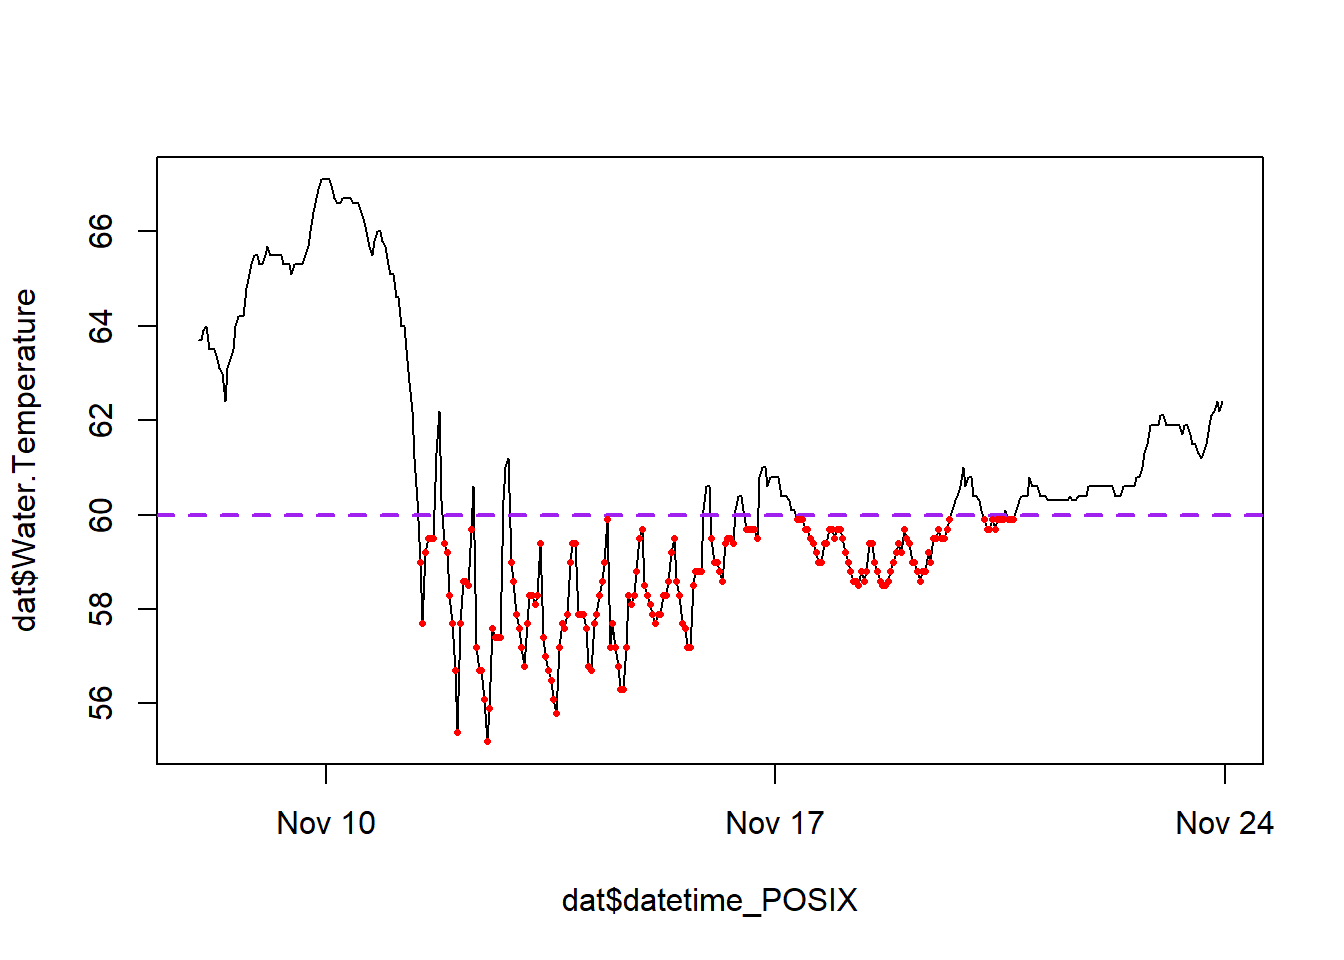
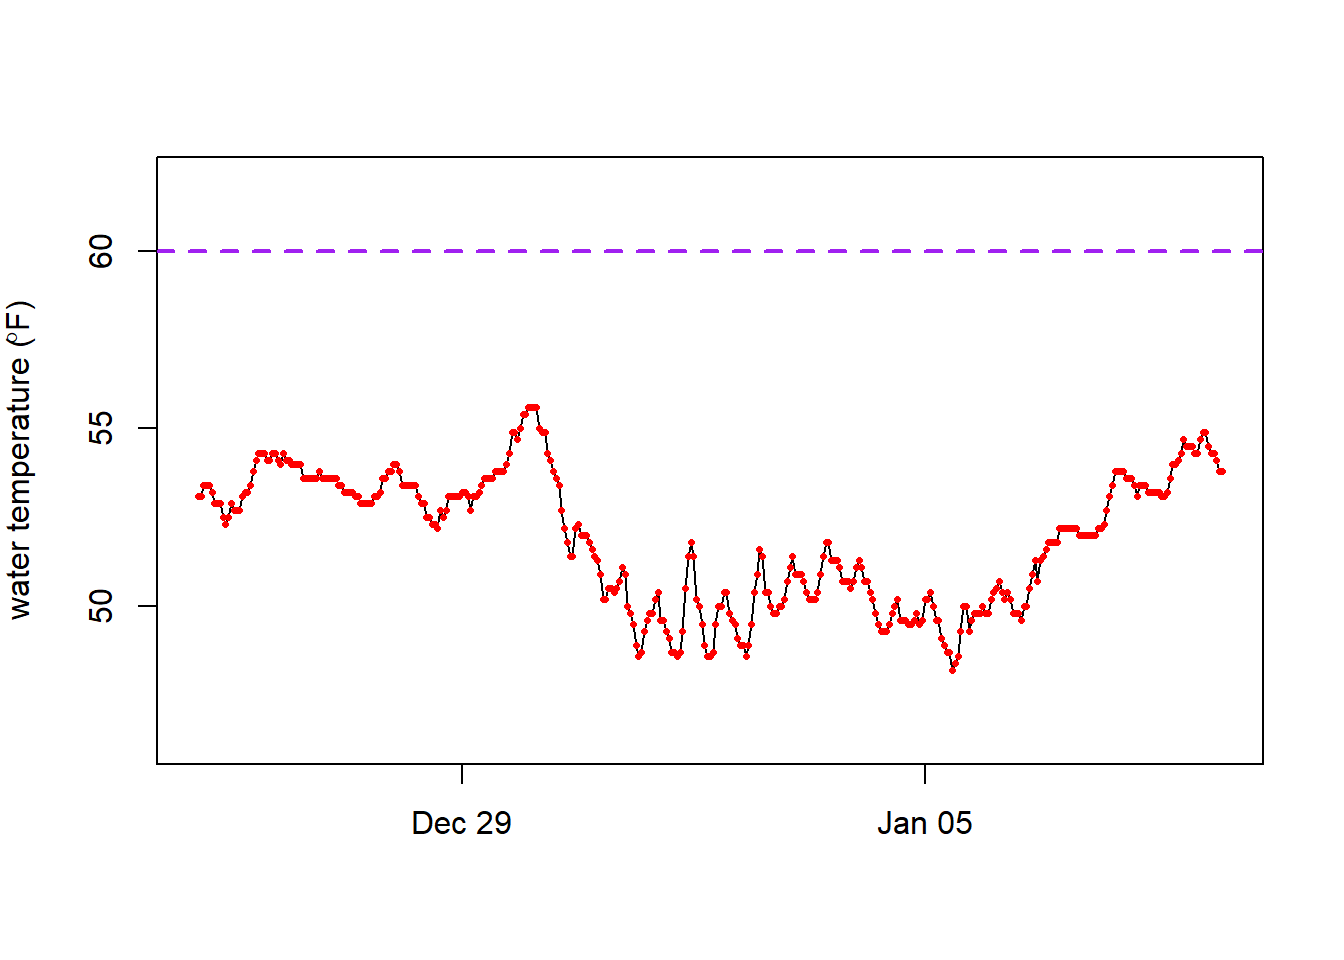
update

diff --git a/index.html b/index.html
@@ -6,7 +6,7 @@
 
 <meta name="viewport" content="width=device-width, initial-scale=1.0, user-scalable=yes">
 
-<meta name="dcterms.date" content="2025-11-23">
+<meta name="dcterms.date" content="2026-01-09">
 
 <title>water temp at 8656483</title>
 <style>
@@ -91,7 +91,7 @@ pre > code.sourceCode > span > a:first-child::before { text-decoration: underlin
     <div>
     <div class="quarto-title-meta-heading">Published</div>
     <div class="quarto-title-meta-contents">
-      <p class="date">November 23, 2025</p>
+      <p class="date">January 9, 2026</p>
     </div>
   </div>
   
@@ -192,10 +192,21 @@ pre > code.sourceCode > span > a:first-child::before { text-decoration: underlin
 <div class="cell">
 <details class="code-fold">
 <summary>Code</summary>
-<div class="sourceCode cell-code" id="cb3"><pre class="sourceCode r code-with-copy"><code class="sourceCode r"><span id="cb3-1"><a href="#cb3-1" aria-hidden="true" tabindex="-1"></a><span class="fu">plot</span>(dat<span class="sc">$</span>datetime_POSIX, dat<span class="sc">$</span>Water.Temperature, <span class="at">type =</span> <span class="st">'l'</span>)</span>
-<span id="cb3-2"><a href="#cb3-2" aria-hidden="true" tabindex="-1"></a><span class="fu">abline</span>(<span class="at">h =</span> <span class="dv">60</span>, <span class="at">lty =</span> <span class="dv">2</span>, <span class="at">lwd =</span> <span class="dv">2</span>, <span class="at">col =</span> <span class="st">"purple"</span>)</span>
-<span id="cb3-3"><a href="#cb3-3" aria-hidden="true" tabindex="-1"></a>dese <span class="ot">&lt;-</span> <span class="fu">which</span>(dat<span class="sc">$</span>Water.Temperature <span class="sc">&lt;</span> <span class="dv">60</span>)</span>
-<span id="cb3-4"><a href="#cb3-4" aria-hidden="true" tabindex="-1"></a><span class="fu">points</span>(dat<span class="sc">$</span>datetime_POSIX[dese], dat<span class="sc">$</span>Water.Temperature[dese], <span class="at">col =</span> <span class="st">"red"</span>, <span class="at">pch =</span> <span class="dv">16</span>, <span class="at">cex =</span> <span class="fl">0.5</span>)</span></code><button title="Copy to Clipboard" class="code-copy-button"><i class="bi"></i></button></pre></div>
+<div class="sourceCode cell-code" id="cb3"><pre class="sourceCode r code-with-copy"><code class="sourceCode r"><span id="cb3-1"><a href="#cb3-1" aria-hidden="true" tabindex="-1"></a><span class="co"># build the y axis range to always include 62 and go 2 degrees below the lowest just to make it look nice</span></span>
+<span id="cb3-2"><a href="#cb3-2" aria-hidden="true" tabindex="-1"></a>ylims <span class="ot">&lt;-</span> <span class="fu">range</span>(<span class="fu">c</span>(<span class="dv">62</span>, dat<span class="sc">$</span>Water.Temperature)) <span class="sc">+</span> <span class="fu">c</span>(<span class="sc">-</span><span class="dv">2</span>, <span class="dv">0</span>)</span>
+<span id="cb3-3"><a href="#cb3-3" aria-hidden="true" tabindex="-1"></a></span>
+<span id="cb3-4"><a href="#cb3-4" aria-hidden="true" tabindex="-1"></a><span class="co"># make the plot</span></span>
+<span id="cb3-5"><a href="#cb3-5" aria-hidden="true" tabindex="-1"></a><span class="fu">plot</span>(dat<span class="sc">$</span>datetime_POSIX, dat<span class="sc">$</span>Water.Temperature,</span>
+<span id="cb3-6"><a href="#cb3-6" aria-hidden="true" tabindex="-1"></a>  <span class="at">type =</span> <span class="st">'l'</span>,</span>
+<span id="cb3-7"><a href="#cb3-7" aria-hidden="true" tabindex="-1"></a>  <span class="at">ylim =</span> ylims,</span>
+<span id="cb3-8"><a href="#cb3-8" aria-hidden="true" tabindex="-1"></a>  <span class="at">xlab =</span> <span class="st">""</span>,</span>
+<span id="cb3-9"><a href="#cb3-9" aria-hidden="true" tabindex="-1"></a>  <span class="at">ylab =</span> <span class="fu">expression</span>(<span class="st">"water temperature ("</span> <span class="sc">*</span> degree <span class="sc">*</span> F <span class="sc">*</span> <span class="st">")"</span>)</span>
+<span id="cb3-10"><a href="#cb3-10" aria-hidden="true" tabindex="-1"></a>)</span>
+<span id="cb3-11"><a href="#cb3-11" aria-hidden="true" tabindex="-1"></a></span>
+<span id="cb3-12"><a href="#cb3-12" aria-hidden="true" tabindex="-1"></a><span class="co"># add the annotations</span></span>
+<span id="cb3-13"><a href="#cb3-13" aria-hidden="true" tabindex="-1"></a><span class="fu">abline</span>(<span class="at">h =</span> <span class="dv">60</span>, <span class="at">lty =</span> <span class="dv">2</span>, <span class="at">lwd =</span> <span class="dv">2</span>, <span class="at">col =</span> <span class="st">"purple"</span>)</span>
+<span id="cb3-14"><a href="#cb3-14" aria-hidden="true" tabindex="-1"></a>dese <span class="ot">&lt;-</span> <span class="fu">which</span>(dat<span class="sc">$</span>Water.Temperature <span class="sc">&lt;</span> <span class="dv">60</span>)</span>
+<span id="cb3-15"><a href="#cb3-15" aria-hidden="true" tabindex="-1"></a><span class="fu">points</span>(dat<span class="sc">$</span>datetime_POSIX[dese], dat<span class="sc">$</span>Water.Temperature[dese], <span class="at">col =</span> <span class="st">"red"</span>, <span class="at">pch =</span> <span class="dv">16</span>, <span class="at">cex =</span> <span class="fl">0.5</span>)</span></code><button title="Copy to Clipboard" class="code-copy-button"><i class="bi"></i></button></pre></div>
 </details>
 <div class="cell-output-display">
 <div>
